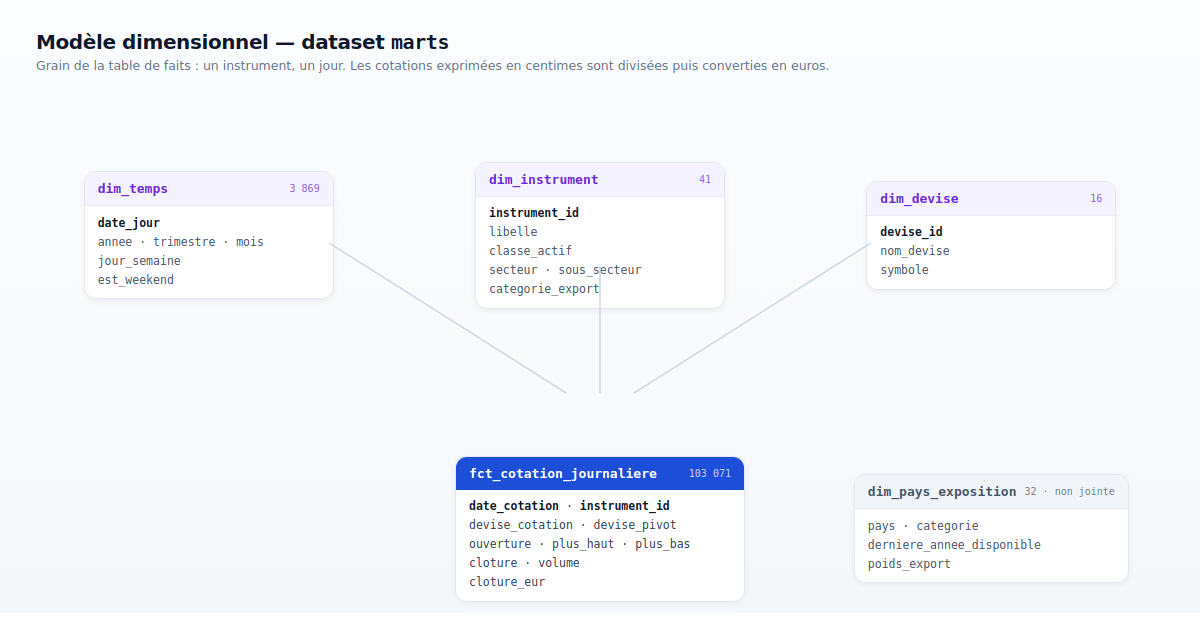
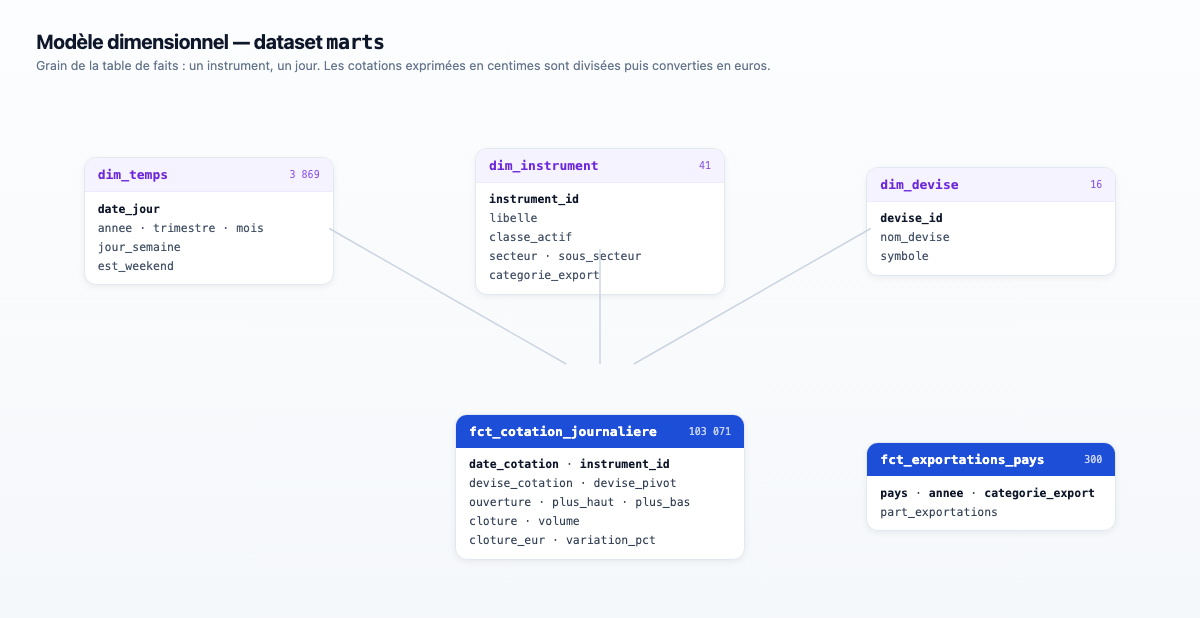
Aligne la doc et les schémas sur le renommage fct_exportations_pays
README.md, drawio.py et schema_etoile.png montraient encore
dim_pays_exposition comme dimension non jointe alors que ce même
commit (24c20ba) l'a remplacée par la table de faits
fct_exportations_pays. Régénère architecture.drawio et
schema_etoile.png en conséquence.

diff --git a/docs/diagramme/modele.html b/docs/diagramme/modele.html
@@ -31,7 +31,9 @@
   .fait { min-width:290px }
   .fait h2 { background:#1D4ED8; color:#fff }
   .fait li { color:#334155 }
-  .isole h2 { background:#F1F5F9; color:#475569; border-bottom:1px solid #E2E8F0 }
+  .isole { min-width:250px }
+  .isole h2 { background:#1D4ED8; color:#fff }
+  .isole li { color:#334155 }
 
   .note { font-size:11px; color:#94A3B8; text-align:center; max-width:250px; line-height:1.45 }
   svg.liens { position:absolute; inset:0; width:100%; height:100%; pointer-events:none }
@@ -71,13 +73,13 @@
       <li>devise_cotation · devise_pivot</li>
       <li>ouverture · plus_haut · plus_bas</li>
       <li>cloture · volume</li>
-      <li>cloture_eur</li>
+      <li>cloture_eur · variation_pct</li>
     </ul>
   </div>
 
   <div class="tbl isole">
-    <h2>dim_pays_exposition <em>32 · non jointe</em></h2>
-    <ul><li>pays · categorie</li><li>derniere_annee_disponible</li><li>poids_export</li></ul>
+    <h2>fct_exportations_pays <em>300</em></h2>
+    <ul><li><b>pays</b> · <b>annee</b> · <b>categorie_export</b></li><li>part_exportations</li></ul>
   </div>
 
 </div>

diff --git a/docs/diagramme/drawio.py b/docs/diagramme/drawio.py
@@ -98,7 +98,7 @@ d = bloc("dbt", [("staging", "6 vues"), ("normalisation", "USX GBp ZAc"),
 # --- marts
 marts = bloc("marts", [("fct_cotation_journaliere", ""), ("dim_temps", ""),
                        ("dim_instrument", ""), ("dim_devise", ""),
-                       ("dim_pays_exposition", "")],
+                       ("fct_exportations_pays", "")],
              1100, y0 + 40, "bigquery.svg", VIOLET, w=230)
 
 # --- restitution

diff --git a/README.md b/README.md
@@ -29,7 +29,7 @@ dim_temps ┐
 dim_instrument ├─► fct_cotation_journaliere
 dim_devise ┘
 
-dim_pays_exposition   (contexte pays, non joint)
+fct_exportations_pays (grain distinct : pays × catégorie × année, non jointe)
 ```
 
 Détails et diagrammes : [docs/architecture.md](docs/architecture.md).
